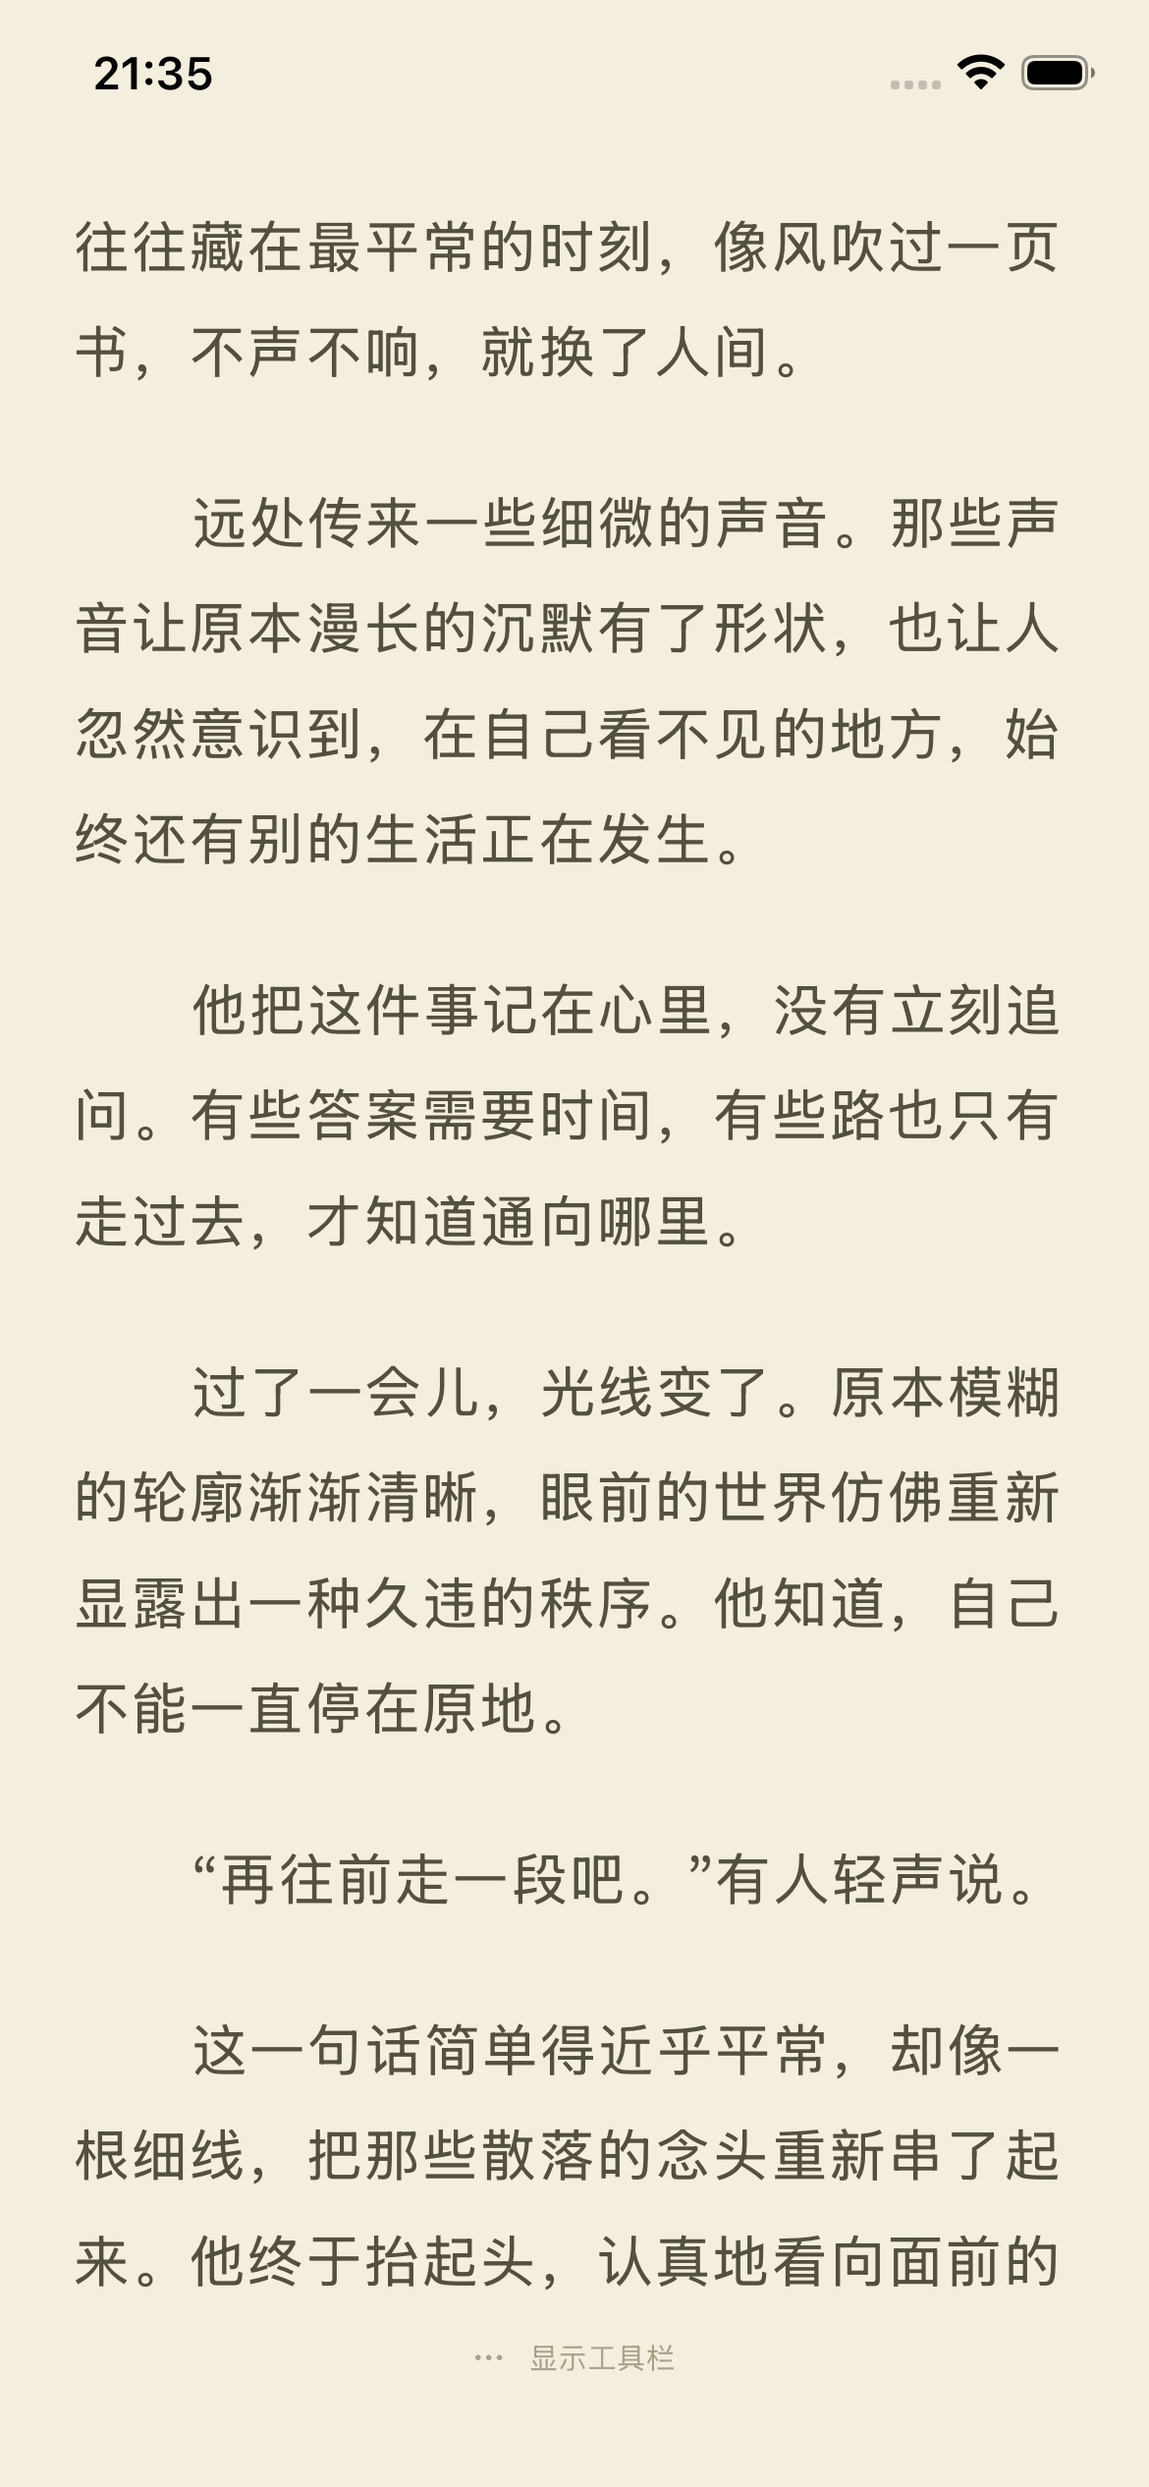
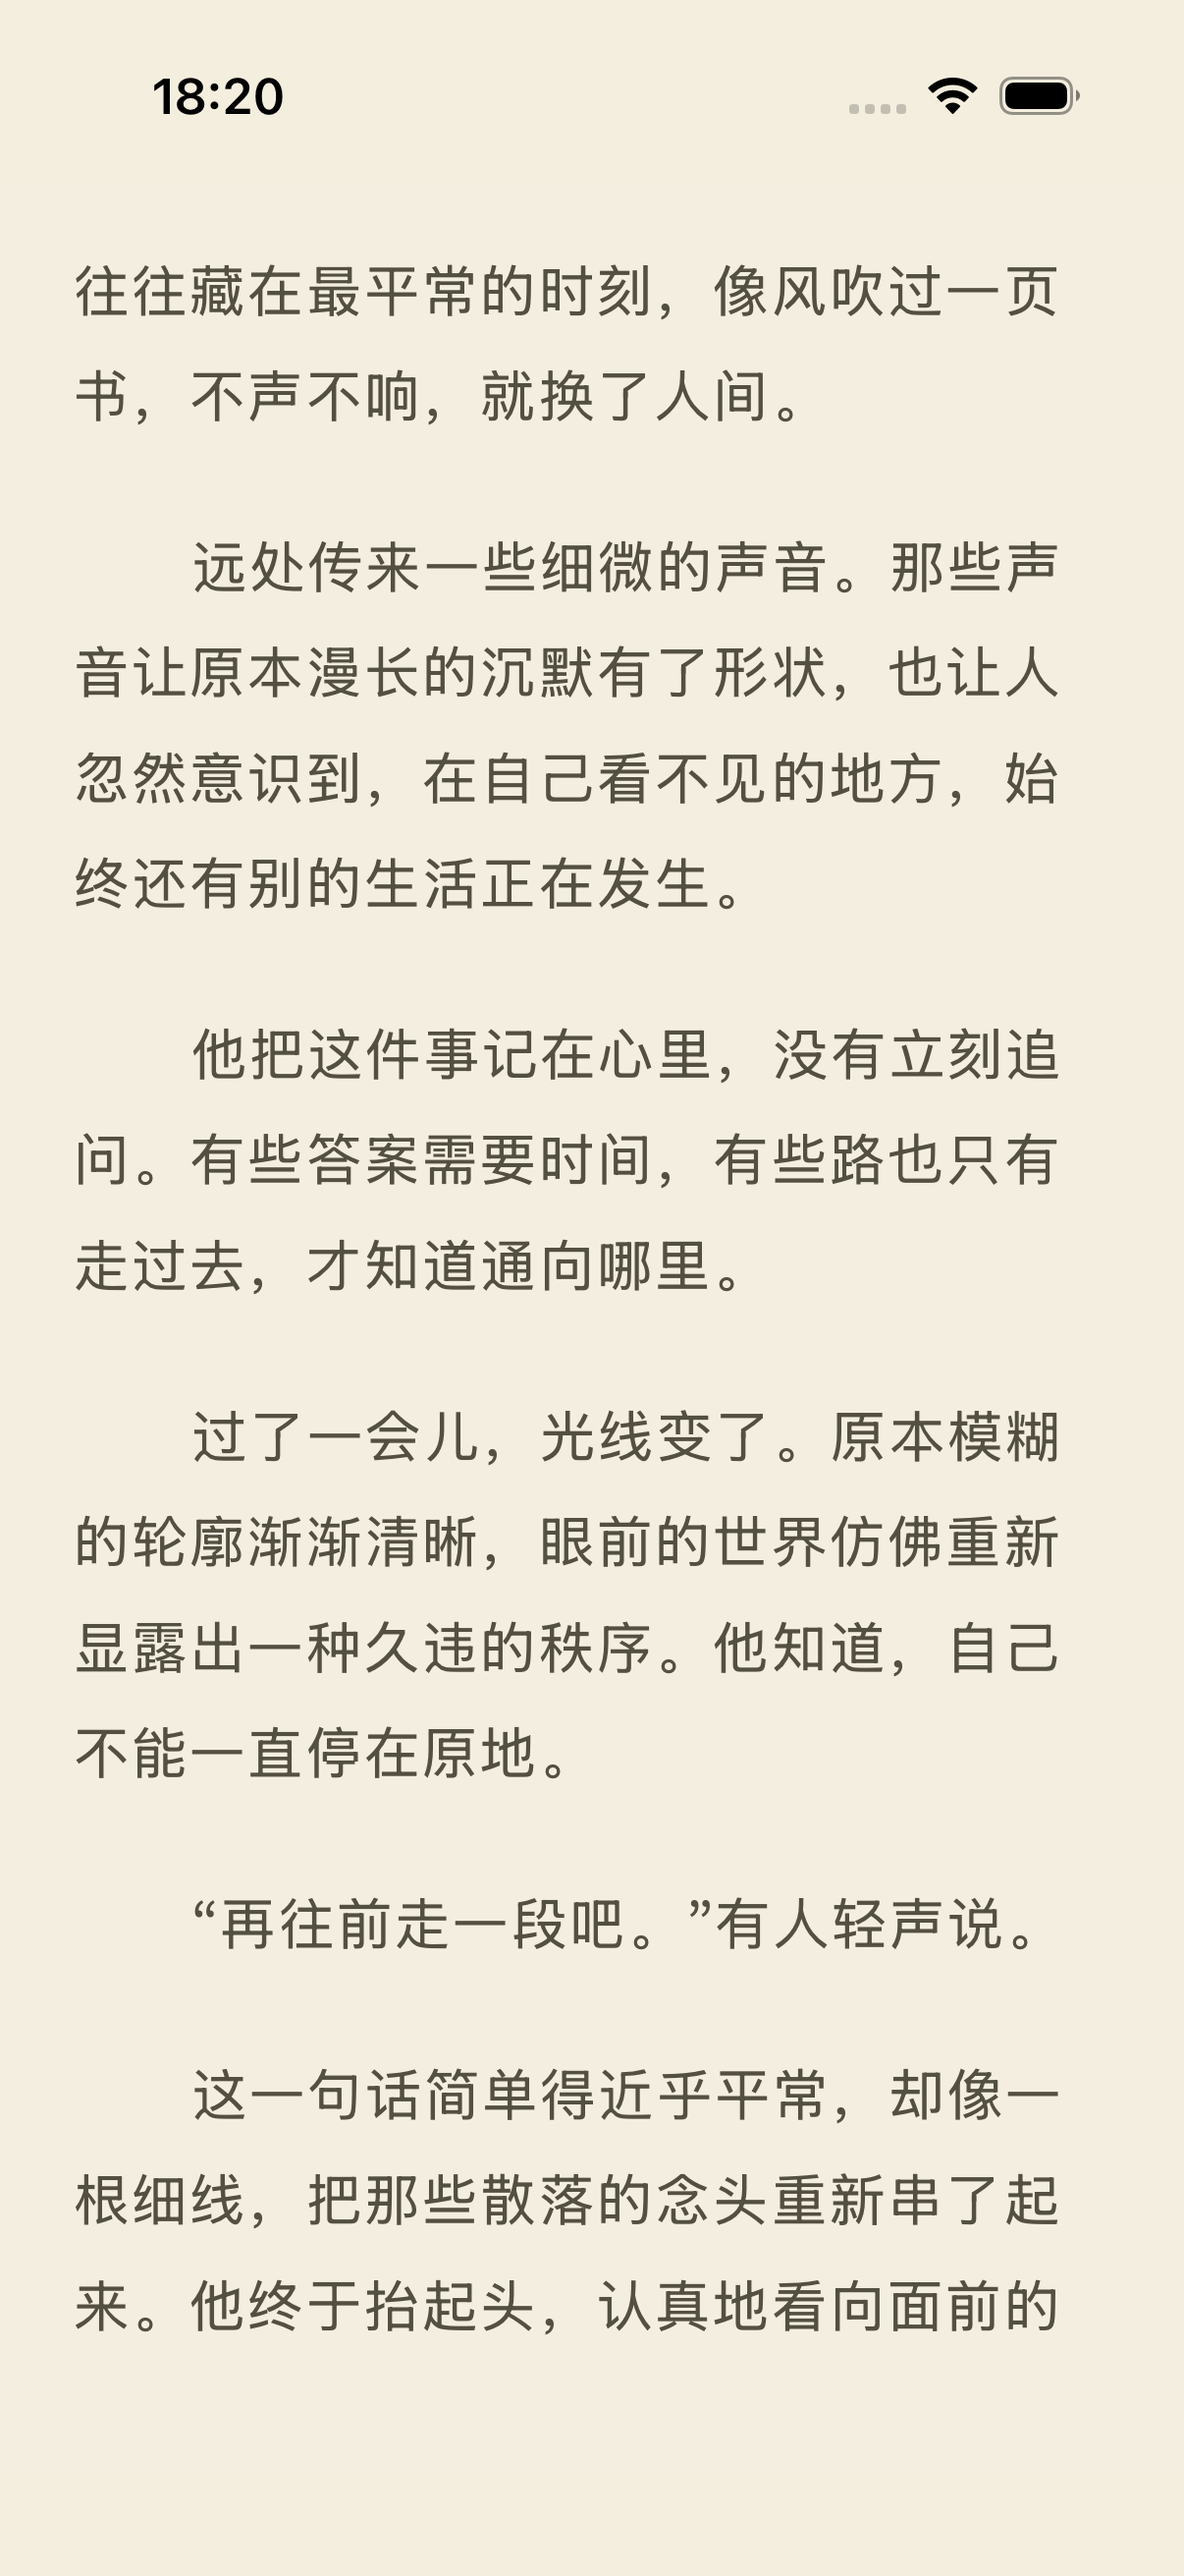
fix(ios): fully hide reader controls with toolbar

diff --git a/ios/YueshanUITests/ReaderFlowTests.swift b/ios/YueshanUITests/ReaderFlowTests.swift
@@ -481,6 +481,23 @@ final class ReaderFlowTests: XCTestCase {
     }
 
     @MainActor
+    private func assertReaderControlsHidden(in app: XCUIApplication, file: StaticString = #filePath, line: UInt = #line) {
+        let hidden = XCTNSPredicateExpectation(predicate: NSPredicate { _, _ in
+            !app.otherElements["readerTopToolbar"].exists && !app.otherElements["readerFloatingToolbar"].exists
+        }, object: nil)
+        XCTAssertEqual(XCTWaiter.wait(for: [hidden], timeout: 5), .completed, "Tapping the text center hides both reading toolbars", file: file, line: line)
+        XCTAssertFalse(app.otherElements["readerTopToolbar"].exists, file: file, line: line)
+        XCTAssertFalse(app.otherElements["readerFloatingToolbar"].exists, file: file, line: line)
+        XCTAssertFalse(app.sliders["chapterSlider"].exists, file: file, line: line)
+        XCTAssertFalse(app.staticTexts["readerPageStatus"].exists, file: file, line: line)
+        for id in ["readerMoreTools", "readerContents", "readerSettings", "readerNarration", "readerSkins", "previousChapter", "nextChapter", "showReaderControls"] {
+            XCTAssertFalse(app.buttons[id].exists, "Hidden reading controls must leave no button behind: \(id)", file: file, line: line)
+        }
+        XCTAssertFalse(app.buttons["显示工具栏"].exists, file: file, line: line)
+        XCTAssertFalse(app.staticTexts["显示工具栏"].exists, file: file, line: line)
+    }
+
+    @MainActor
     private func capture(_ app: XCUIApplication, name: String) {
         let preview = XCTAttachment(screenshot: app.screenshot())
         preview.name = name
@@ -601,10 +618,12 @@ final class ReaderFlowTests: XCTestCase {
         XCTAssertTrue(app.staticTexts["readerPageStatus"].label.contains("本章 2 /"))
         app.buttons["readerTapCenter"].swipeLeft()
         XCTAssertTrue(app.staticTexts["readerPageStatus"].label.contains("本章 3 /"))
+        let pageBeforeHiding = app.staticTexts["readerPageStatus"].label
         app.buttons["readerTapCenter"].tap()
-        XCTAssertTrue(app.buttons["showReaderControls"].waitForExistence(timeout: 5))
-        app.buttons["showReaderControls"].tap()
-        XCTAssertTrue(app.buttons["readerContents"].isHittable)
+        assertReaderControlsHidden(in: app)
+        app.buttons["readerTapCenter"].tap()
+        assertFloatingToolbar(in: app)
+        XCTAssertEqual(app.staticTexts["readerPageStatus"].label, pageBeforeHiding, "Center taps toggle the controls without turning a page")
         let slider = app.sliders["chapterSlider"]
         slider.adjust(toNormalizedSliderPosition: 0.7)
         XCTAssertNotEqual(app.staticTexts["chapterTitle"].label, "第三章 山雨欲来")
@@ -632,8 +651,7 @@ final class ReaderFlowTests: XCTestCase {
         // UITextView.tap() can choose its top-left accessibility hit point,
         // which now sits under the overlaid back button. Tap the actual center.
         text.coordinate(withNormalizedOffset: CGVector(dx: 0.5, dy: 0.5)).tap()
-        XCTAssertTrue(app.buttons["showReaderControls"].waitForExistence(timeout: 5))
-        XCTAssertFalse(app.buttons["readerSettings"].exists)
+        assertReaderControlsHidden(in: app)
         XCTAssertGreaterThan(text.frame.height, app.frame.height * 0.82, "Hidden controls must not reserve space above or below the text")
         XCTAssertGreaterThan(text.frame.maxY, app.frame.maxY - 65, "The text viewport must reach the bottom safe area")
         XCTAssertEqual(text.frame, frame, "Toggling the overlay must not resize or reflow the text")
@@ -641,7 +659,8 @@ final class ReaderFlowTests: XCTestCase {
         preview.name = "ImmersiveScrollingReader"
         preview.lifetime = .keepAlways
         add(preview)
-        app.buttons["showReaderControls"].tap()
+        text.coordinate(withNormalizedOffset: CGVector(dx: 0.5, dy: 0.5)).tap()
+        assertFloatingToolbar(in: app)
         XCTAssertEqual(text.frame, frame)
         XCTAssertEqual(app.staticTexts["readerPageStatus"].label, progress)
 
@@ -649,10 +668,17 @@ final class ReaderFlowTests: XCTestCase {
         XCUIDevice.shared.orientation = .landscapeLeft
         defer { XCUIDevice.shared.orientation = .portrait }
         XCTAssertTrue(text.waitForExistence(timeout: 5))
+        let landscapeFrame = text.frame
+        let landscapeProgress = app.staticTexts["readerPageStatus"].label
         text.coordinate(withNormalizedOffset: CGVector(dx: 0.5, dy: 0.5)).tap()
-        XCTAssertTrue(app.buttons["showReaderControls"].waitForExistence(timeout: 5))
+        assertReaderControlsHidden(in: app)
         XCTAssertGreaterThan(text.frame.height, app.frame.height * 0.82)
         XCTAssertGreaterThan(text.frame.maxY, app.frame.maxY - 65)
+        text.coordinate(withNormalizedOffset: CGVector(dx: 0.5, dy: 0.5)).tap()
+        XCTAssertTrue(app.buttons["readerContents"].waitForExistence(timeout: 5))
+        XCTAssertTrue(app.sliders["chapterSlider"].exists)
+        XCTAssertEqual(text.frame, landscapeFrame)
+        XCTAssertEqual(app.staticTexts["readerPageStatus"].label, landscapeProgress)
     }
 
     @MainActor
@@ -671,8 +697,7 @@ final class ReaderFlowTests: XCTestCase {
         XCTAssertTrue(text.waitForExistence(timeout: 5))
         let frame = text.frame
         app.buttons["readerTapCenter"].tap()
-        XCTAssertTrue(app.buttons["showReaderControls"].waitForExistence(timeout: 5))
-        XCTAssertFalse(app.buttons["readerContents"].exists)
+        assertReaderControlsHidden(in: app)
         XCTAssertGreaterThan(text.frame.height, app.frame.height * 0.78, "Pagination must use the full reading height")
         XCTAssertGreaterThan(text.frame.maxY, app.frame.maxY - 85)
         XCTAssertEqual(text.frame, frame)
@@ -680,7 +705,7 @@ final class ReaderFlowTests: XCTestCase {
         preview.name = "ImmersivePagedReader"
         preview.lifetime = .keepAlways
         add(preview)
-        app.buttons["showReaderControls"].tap()
+        app.buttons["readerTapCenter"].tap()
         XCTAssertEqual(app.staticTexts["readerPageStatus"].label, page, "Showing controls must preserve the current page and page count")
         XCTAssertEqual(text.frame, frame)
         assertFloatingToolbar(in: app)

diff --git a/ios/Yueshan/Views/ReaderView.swift b/ios/Yueshan/Views/ReaderView.swift
@@ -90,11 +90,6 @@ struct ReaderView: View {
                 }
                 if controlsVisible {
                     footer
-                } else {
-                    Button { controlsVisible = true; haptic() } label: {
-                        Label("显示工具栏", systemImage: "ellipsis").font(.system(size: 10)).padding(.horizontal, 14).frame(height: 20).foregroundStyle(theme.secondary).background(theme.background.opacity(0.92), in: Capsule())
-                            .frame(height: 44, alignment: .bottom)
-                    }.accessibilityIdentifier("showReaderControls")
                 }
             }
         }

diff --git a/ios/README.md b/ios/README.md
@@ -84,7 +84,7 @@
 
 横向分页根据屏幕可用区域、字号和行距重新排版；两种阅读模式共用文字位置，改变排版后会定位至包含该位置的一页。原有 v1 收藏与阅读数据会迁移，不需要卸载重装。
 
-阅读正文始终占满屏幕安全区域，上下工具栏以覆盖层显示。轻触中间收起工具栏后，原位置会直接露出正文；再次显示菜单不会重新分页或移动文字。底部只保留少量阅读边距与系统安全区域，不为隐藏的工具栏预留空间。
+阅读正文始终占满屏幕安全区域，上下工具栏以覆盖层显示。轻触中间收起工具栏后，原位置会直接露出正文，底部不保留“显示工具栏”按钮；再次轻触正文中间唤回菜单，不会重新分页或移动文字。底部只保留少量阅读边距与系统安全区域，不为隐藏的工具栏预留空间。
 
 工具栏沿用首页 Tab 栏的悬浮胶囊样式，两侧留边、底部留空，章节进度独立悬浮在主操作栏上方。顶部书名栏也使用相同圆角材质；浅色与夜读主题自动适配，横屏时限制浮层宽度。
 
